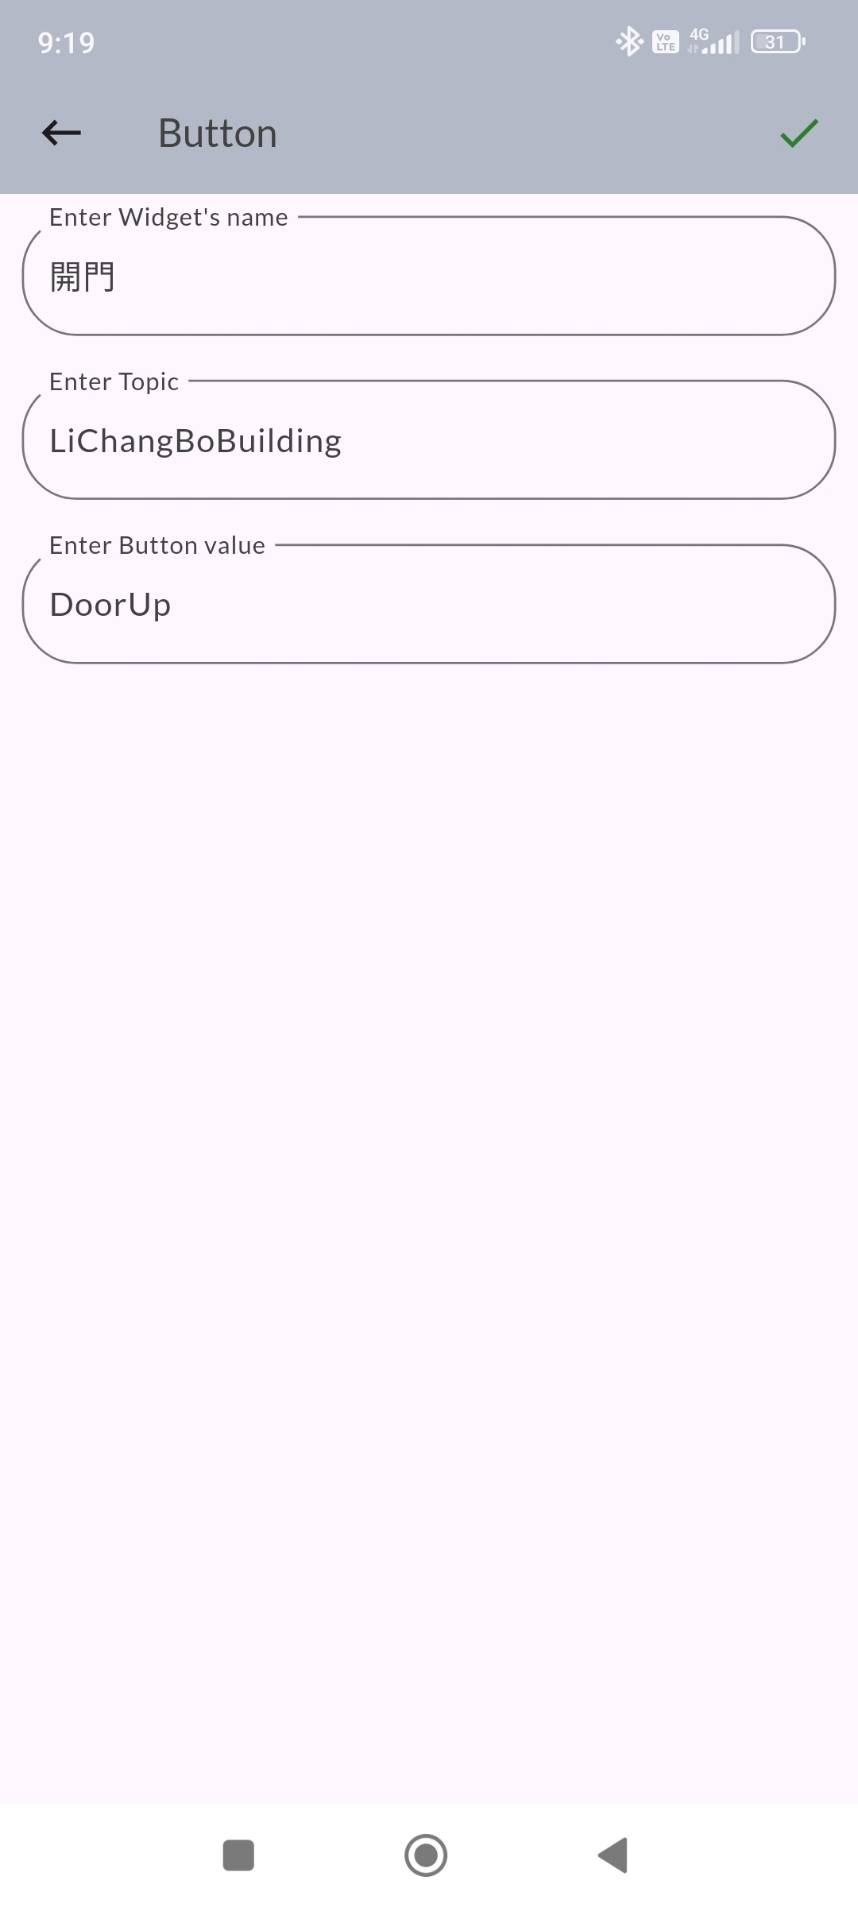
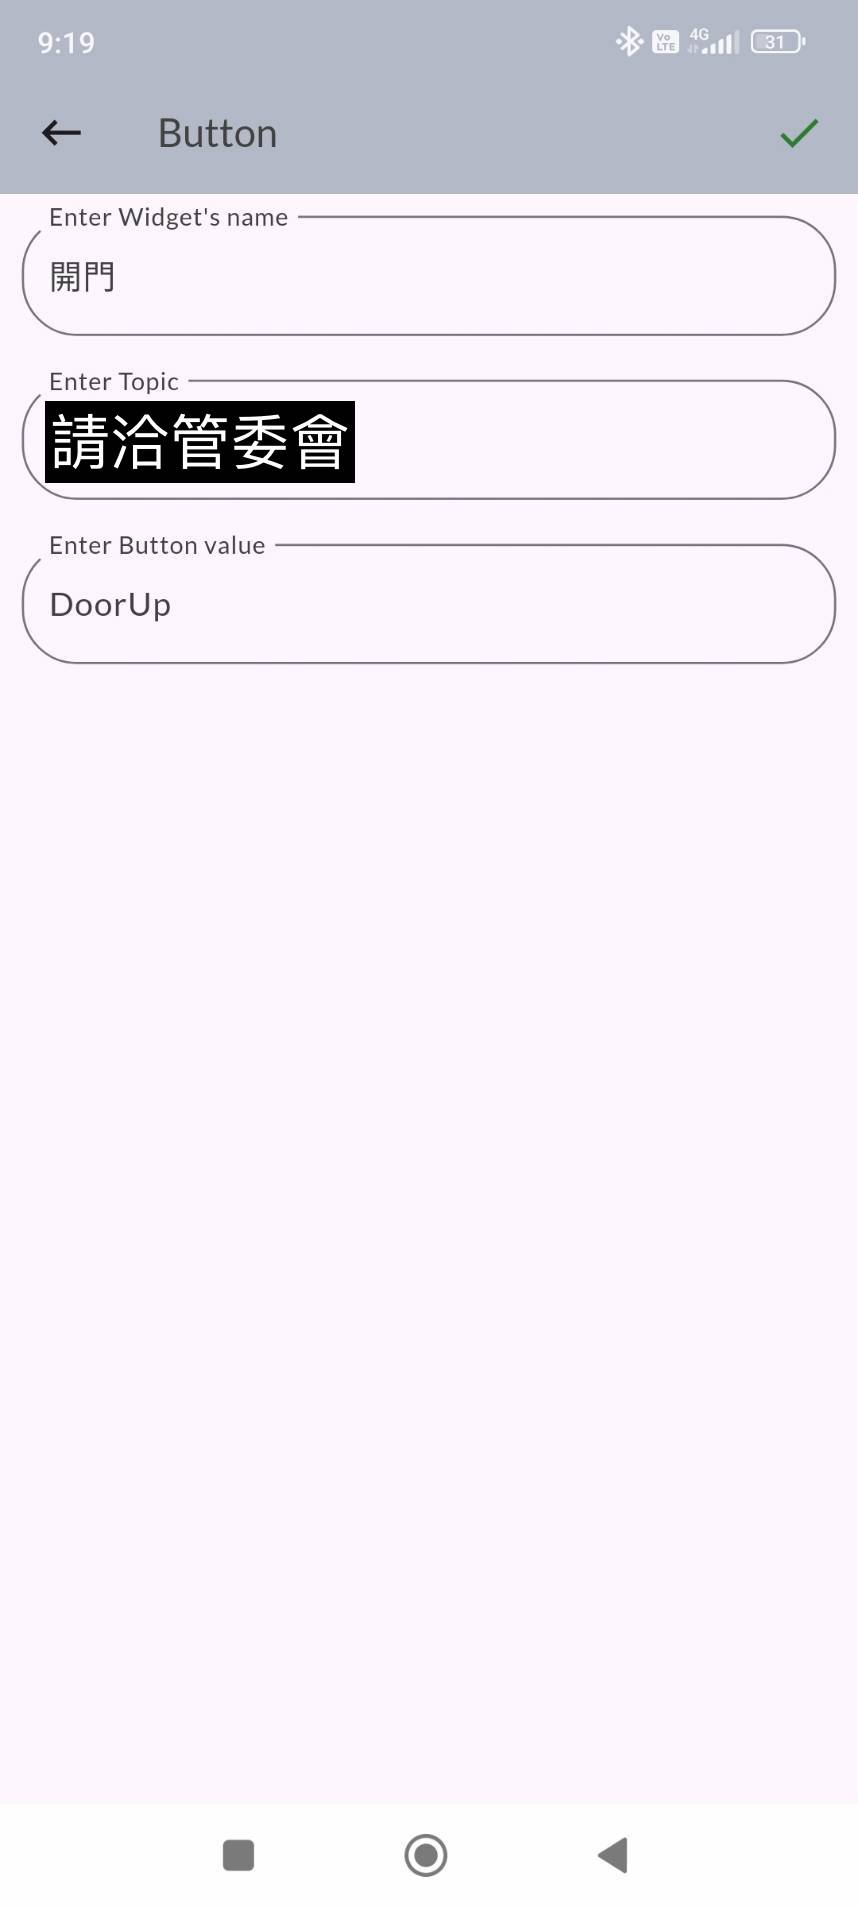
更新 read me

Changed region(s): [[0.0303, 0.1856, 0.4242, 0.2784]]

diff --git a/README.md b/README.md
@@ -1,63 +1,140 @@
-# ESP32 社區鐵捲門 MQTT 控制
+# ESP32 社區鐵捲門 MQTT 遠端控制器
 
-本專案使用 ESP32 開發板，透過 MQTT 協定讓使用者能用手機遠端遙控社區鐵捲門。
+本專案利用 ESP32 開發板，透過 Wi-Fi 連接至 MQTT 伺服器，讓使用者能夠使用手機等裝置，遠端發送指令來控制社區的鐵捲門（上、下、停）。
+
+![專案照片](https://github.com/Chihhao/esp32_door_mqtt/blob/main/image/IMG_7068.jpg)
+
+## ✨ 功能特色
+
+*   **遠端遙控**: 透過網際網路，在任何地方都能控制鐵捲門。
+*   **跨平台支援**: 支援 iOS 與 Android 裝置（透過通用 MQTT 客戶端 App）。
+*   **即時反應**: 基於 MQTT 協定，指令傳輸延遲低。
+*   **低成本實現**: 使用常見且便宜的 ESP32 開發板與繼電器模組。
 
 > [!WARNING]
-> **重大安全警告**
-> *   **謹慎使用**: 此系統透過網際網路控制鐵捲門，無須靠近即可操作。請務必謹慎使用，確保操作時的周遭環境安全。
-> *   **資訊安全**: 目前系統使用公開的 MQTT 伺服器且**未啟用密碼驗證**。為了社區安全，**請勿將此頁面資訊外流**。任何知道伺服器位址和主題 (Topic) 的人都能控制鐵捲門。
-> *   **未來更新**: 未來將加入白名單設計，以提升安全性。
+> ### **重大安全警告**
+> *   **謹慎使用**: 此系統透過網際網路控制鐵捲門，無須靠近即可操作。請務必謹慎使用，確保操作時鐵捲門周遭環境安全，避免造成意外。
+> *   **資訊安全**: 目前系統使用公開的 MQTT 伺服器。為了社區安全，**請勿將此頁面或相關資訊外流**。任何知道伺服器位址和主題 (Topic) 的人都能控制鐵捲門。
+> *   **未來更新**: 未來版本計畫加入白名單或使用者驗證機制，以大幅提升安全性。
+
+## 🛠 硬體需求
+
+*   ESP32 開發板 (例如：ESP32-DevKitC)
+*   4路 (或以上) 繼電器模組 (Relay Module)
+*   5V/12V 電源供應器 (根據繼電器模組規格)
+*   杜邦線若干
+
+## ⚙ 軟體與環境
+
+*   [Arduino IDE](https://www.arduino.cc/en/software) 或 [PlatformIO](https://platformio.org/)
+*   ESP32 Board Support Package
+*   Arduino 函式庫:
+    *   `WiFi.h`
+    *   `PubSubClient.h`
+*   MQTT Broker (本專案使用公開伺服器 `mqttgo.io`)
+*   手機端 MQTT Client App (例如：`MQTT-Client` for iOS, `MQTT Dashboard` for Android)
+
+## 🏗 安裝與設定
+
+### 1. 硬體接線
+
+請參考下圖將 ESP32 與繼電器模組連接。繼電器模組的 `COM` 與 `NO` (常開) 接點需再連接至鐵捲門原有的手動開關按鈕上。
+
+*   **ESP32 -> 繼電器模組**
+    *   `GND` -> `GND`
+    *   `5V` -> `VCC`
+    *   `GPIO 18` -> `IN1` (控制：上)
+    *   `GPIO 19` -> `IN2` (控制：停)
+    *   `GPIO 21` -> `IN3` (控制：下)
+
+*   **相關照片**
+    * ![硬體接線圖1](https://github.com/Chihhao/esp32_door_mqtt/blob/main/image/IMG_7055.jpg)
+    * ![硬體接線圖2](https://github.com/Chihhao/esp32_door_mqtt/blob/main/image/IMG_7067.jpg)
+    * ![硬體接線圖3](https://github.com/Chihhao/esp32_door_mqtt/blob/main/image/p003.jpg)
+    * ![硬體接線圖4](https://github.com/Chihhao/esp32_door_mqtt/blob/main/image/p002.png)
+    * ![硬體接線圖5](https://github.com/Chihhao/esp32_door_mqtt/blob/main/image/p001.png)  
+
+### 2. 燒錄程式
+
+1.  使用 Git Clone 或直接下載本專案的程式碼。
+2.  在 Arduino IDE 或 PlatformIO 中開啟專案。
+3.  **修改設定**: 在程式碼中找到設定區塊，填入您的 Wi-Fi 帳號密碼。
+    ```cpp
+    // --- 請修改為您的 Wi-Fi 資訊 ---
+    const char* ssid = "YOUR_WIFI_SSID";
+    const char* password = "YOUR_WIFI_PASSWORD";
+    // --------------------------------
+    ```
+4.  連接 ESP32 開發板至電腦。
+5.  選擇正確的開發板型號與 COM Port。
+6.  編譯並上傳程式碼至 ESP32。
+
 
 # Iphone(IOS) 操作 SOP  
-* 下載 MQTT-Client  
+1.  至 App Store 下載 **MQTT-Client**。
 ![image](https://github.com/Chihhao/esp32_door_mqtt/blob/main/image/p1.png)  
-* 點選右下角 Setting，進入設定畫面  
-(1) 設定 Server IP: mqttgo.io  
-(2) 啟用 Clear session  
-(3) 關閉 Lightcontrol  
-![image](https://github.com/Chihhao/esp32_door_mqtt/blob/main/image/p2.png)  
-(4) 啟用 Doorcontrol  
-(5) 點選 "-" 將 2 Doors 變成 1 Door  
-(6) 設定 Topic: LiChangBoBuilding  
-(7) 設定 上 Message: DoorUp  
-(8) 設定 停 Message: DoorStop  
-(9) 設定 下 Message: DoorDown  
-(10) 設定 QOS 0  
-(11) 關閉 Retain    
-![image](https://github.com/Chihhao/esp32_door_mqtt/blob/main/image/p3.png)  
-* 點選左下角 Control，進入使用畫面，即可使用  
-![image](https://github.com/Chihhao/esp32_door_mqtt/blob/main/image/p4.png)  
+2.  點選右下角 **Setting**，進入設定畫面。
+3.  **伺服器設定**:
+    *   Server IP: `mqttgo.io`
+    *   啟用 `Clear session`
+    *   關閉 `Lightcontrol` 
+    ![image](https://github.com/Chihhao/esp32_door_mqtt/blob/main/image/p2.png)  
+4.  **按鈕設定**:
+    *   啟用 `Doorcontrol`
+    *   點選 `-` 將 `2 Doors` 變成 `1 Door`
+    *   Topic: `請洽管委會`
+    *   上 Message: `DoorUp`
+    *   停 Message: `DoorStop`
+    *   下 Message: `DoorDown`
+    *   QOS: `0`
+    *   關閉 `Retain`  
+    ![image](https://github.com/Chihhao/esp32_door_mqtt/blob/main/image/p3.png)  
+5.  點選左下角 **Control**，即可進入主畫面開始使用。
+    ![image](https://github.com/Chihhao/esp32_door_mqtt/blob/main/image/p4.png)  
   
-# Android 操作 SOP   
-* 下載 MQTT Dashboard  
-![image](https://github.com/Chihhao/esp32_door_mqtt/blob/main/image/downloadMqttDashboard.jpg)  
-* 在 Broker 頁面新增項目  
-(1) Client Id: 隨便  
-(2) Server Name: mqttgo.io  
-(3) Port No: 1883  
-(4) User Name: 保持空白  
-(5) Password: 保持空白  
-![image](https://github.com/Chihhao/esp32_door_mqtt/blob/main/image/addBroker.png)  
-![image](https://github.com/Chihhao/esp32_door_mqtt/blob/main/image/serverInfo.png)  
-![image](https://github.com/Chihhao/esp32_door_mqtt/blob/main/image/connentSuccess.jpg)  
-* 如上圖，連線成功後，在 Publish 頁面，新增三個按鈕  
-(1) 開門 / LiChangBoBuilding / DoorUp  
-(2) 停止 / LiChangBoBuilding / DoorStop  
-(3) 關門 / LiChangBoBuilding / DoorDown  
-![image](https://github.com/Chihhao/esp32_door_mqtt/blob/main/image/addPublishItems.png)  
-![image](https://github.com/Chihhao/esp32_door_mqtt/blob/main/image/selectButton.png)  
-![image](https://github.com/Chihhao/esp32_door_mqtt/blob/main/image/button1.jpg)  
-![image](https://github.com/Chihhao/esp32_door_mqtt/blob/main/image/button2.jpg)  
-![image](https://github.com/Chihhao/esp32_door_mqtt/blob/main/image/button3.jpg)  
-* 完成後如下圖，按下按鈕即可操控鐵捲門  
-![image](https://github.com/Chihhao/esp32_door_mqtt/blob/main/image/addThreeButtons.jpg)  
+### Android 操作 SOP
+1.  至 Play Store 下載 **MQTT Dashboard**。
+    ![image](https://github.com/Chihhao/esp32_door_mqtt/blob/main/image/downloadMqttDashboard.jpg)  
+2.  在 **Broker** 頁面點擊 `+` 新增項目。
+    ![image](https://github.com/Chihhao/esp32_door_mqtt/blob/main/image/addBroker.png) 
+3.  **伺服器設定**:
+    *   Client Id: (可自訂，例如您的名字)
+    *   Server Name: `mqttgo.io`
+    *   Port No: `1883`
+    *   User Name: (保持空白)
+    *   Password: (保持空白)
+    ![image](https://github.com/Chihhao/esp32_door_mqtt/blob/main/image/serverInfo.png)  
+4.  儲存後，App 會自動連線，成功後會顯示綠燈。  
+    ![image](https://github.com/Chihhao/esp32_door_mqtt/blob/main/image/connentSuccess.jpg)  
+5.  切換到 **Publish** 頁面，點擊 `+` 新增三個按鈕。
+    ![image](https://github.com/Chihhao/esp32_door_mqtt/blob/main/image/addPublishItems.png)  
+    ![image](https://github.com/Chihhao/esp32_door_mqtt/blob/main/image/selectButton.png)  
+6.  **按鈕設定** (重複三次):
+    *   **開門**:
+        *   Type: `Button`
+        *   Name: `開門`
+        *   Topic: `請洽管委會`
+        *   Payload: `DoorUp`
+    *   **停止**:
+        *   Type: `Button`
+        *   Name: `停止`
+        *   Topic: `請洽管委會`
+        *   Payload: `DoorStop`
+    *   **關門**:
+        *   Type: `Button`
+        *   Name: `關門`
+        *   Topic: `請洽管委會`
+        *   Payload: `DoorDown` 
+    ![image](https://github.com/Chihhao/esp32_door_mqtt/blob/main/image/button1.jpg)  
+    ![image](https://github.com/Chihhao/esp32_door_mqtt/blob/main/image/button2.jpg)  
+    ![image](https://github.com/Chihhao/esp32_door_mqtt/blob/main/image/button3.jpg)  
+7.  完成後即可在主畫面看到三個按鈕，點擊即可操控鐵捲門。
+    ![image](https://github.com/Chihhao/esp32_door_mqtt/blob/main/image/addThreeButtons.jpg)  
 
-# 相關照片  
-![image](https://github.com/Chihhao/esp32_door_mqtt/blob/main/image/p003.jpg)  
-![image](https://github.com/Chihhao/esp32_door_mqtt/blob/main/image/p002.png)  
-![image](https://github.com/Chihhao/esp32_door_mqtt/blob/main/image/IMG_7055.jpg)  
-![image](https://github.com/Chihhao/esp32_door_mqtt/blob/main/image/IMG_7067.jpg)  
-![image](https://github.com/Chihhao/esp32_door_mqtt/blob/main/image/IMG_7068.jpg)  
-![image](https://github.com/Chihhao/esp32_door_mqtt/blob/main/image/p001.png)  
+## 🔮 未來計畫
+
+*   [ ] **增加白名單**: 在 ESP32 端建立一份授權使用者清單 (Client ID)，只允許清單內的裝置發送指令。
+*   [ ] **改用私有 MQTT Broker**: 建立需要帳號密碼驗證的私有 MQTT 伺服器，杜絕未經授權的存取。
+
 
 
